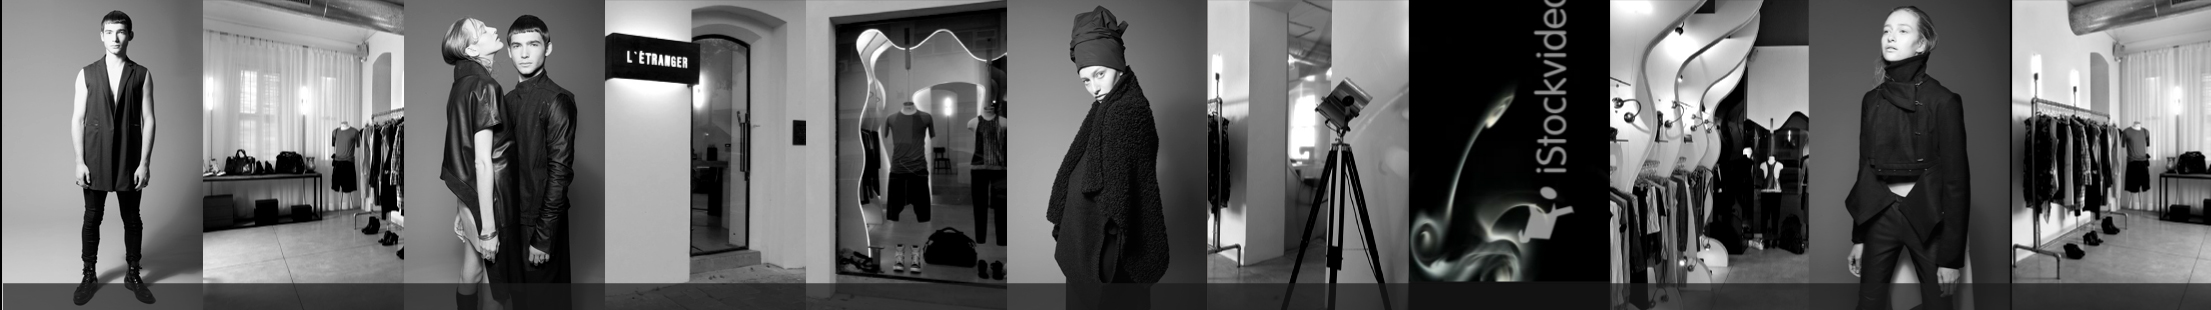
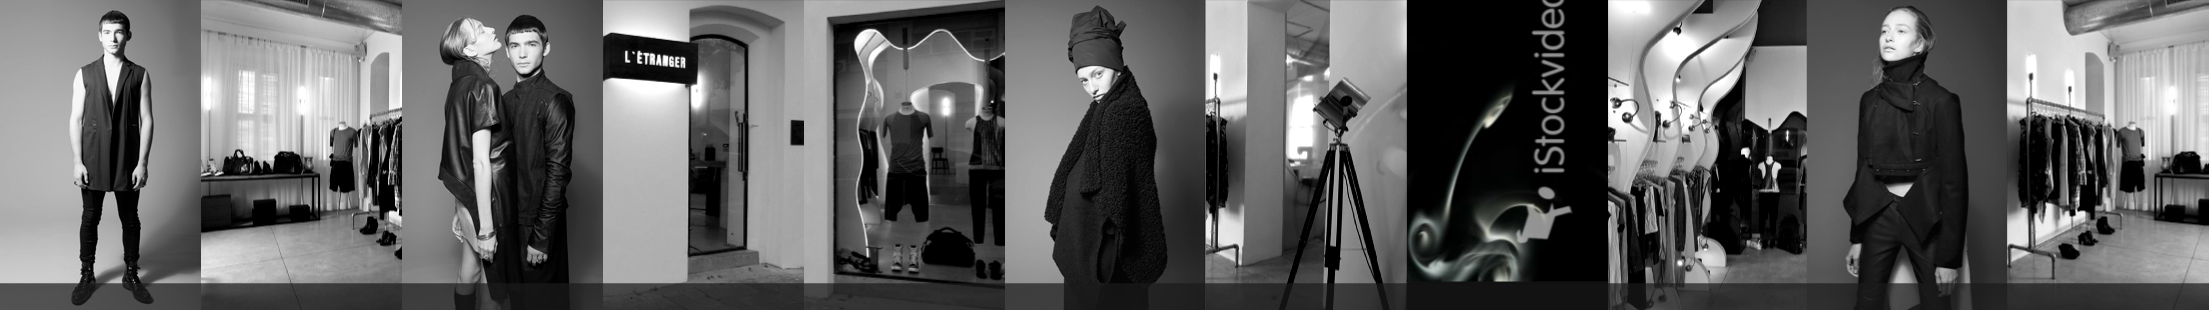
final version 3 static pages
i hope

diff --git a/includes/style.css b/includes/style.css
@@ -160,7 +160,7 @@ footer>section>a:nth-child(5) {
 }
 /* first section in home page - title LETRANGER*/
 #hp_info {
-	height : 100px; 
+	/*height : 100px;*/
 	background: #000000 url(../images/line.jpg) no-repeat 40px bottom;	
 /*	background-size: 917px 1px; */ 
 }
@@ -169,7 +169,7 @@ footer>section>a:nth-child(5) {
 	font-size: 12px;
 	color: #808080;
 	line-height: 27px;
-	padding: 2px 45px 0px 36px;		
+	padding: 2px 45px 17px 36px;		
 }
 /* second section in home page*/
 #designers_area {
@@ -218,16 +218,14 @@ footer>section>a:nth-child(5) {
 /* ------------------------------------------------- Textual pages ------------------------------------------------- */
 
 #textual_pages {
-/*	background: #000000 url(../images/check/textual_pages_bg.jpg) no-repeat top; */
-	background: #000000 url(../images/textual_pages_bg.jpg) no-repeat top; 
+	background: #000000 url(../images/textual_pages_bg.jpg) repeat-x  top;
 	background-size: 2211px 310px; 
-	background-repeat: repeat-x; /*for the background scrolling*/
 }
 
 /* --------------------------------------------------- About page --------------------------------------------------- */
 
 #about_info {
-	height : 230px; /* 207 */
+	/*height : 230px; /* 207 */
 	width: 1005px;
 	background: url(../images/main_bar.jpg) no-repeat 40px top, url(../images/line.jpg) no-repeat 40px bottom;
 }
@@ -243,7 +241,7 @@ footer>section>a:nth-child(5) {
 	font-size: 12px;
 	color: #808080;
 	line-height: 22px;
-	padding: 24px 45px 0px 40px;
+	padding: 24px 45px 25px 40px;
 } 
 
 /* --------------------------------------------------- Articles page --------------------------------------------------- */
@@ -291,23 +289,28 @@ footer>section>a:nth-child(5) {
 	position: relative; 	
 }
 #all_articles>article:nth-child(1){
-	height : 168px;
+	/*height : 168px;*/
 }
 #all_articles>article:nth-child(2){
-	height : 173px;
+	/*height : 173px;*/
+}
+#all_articles>article:nth-child(1)>h2{
+	padding: 30px 45px 0px 39px;
+}
+#all_articles>article:nth-child(2)>h2{
+	padding: 35px 45px 0px 38px;	
 }
 #all_articles>article>h2{
 	font-family: Arial;
 	font-size: 13px;
 	color: #ffffff;
-	padding: 32px 45px 0px 40px;
 }
 #all_articles>article>p {
 	font-family: Arial;
 	font-size: 12px;
 	color: #808080;
 	line-height: 22px;
-	padding: 12px 45px 0px 40px;
+	padding: 5px 45px 30px 39px;
 } 
 .read_more_link {
 	display: block;
@@ -315,7 +318,7 @@ footer>section>a:nth-child(5) {
 	height: 18px;
 	background:url(../images/read_more.jpg) no-repeat;
 	position: absolute;
-	right: 40px;
+	right: 47px;
 	bottom: 1px;
 	text-align: center;
 	text-decoration: none;

diff --git a/includes/scripts.js b/includes/scripts.js
@@ -17,8 +17,10 @@ $(document).ready(function() {
 var BackgroundScroll = function(params) {
 	params = $.extend({
 		scrollSpeed: 20,
-		imageWidth: $('#hp').width(),
-		imageHeight: $('#hp').height()
+		imageWidth: $('#textual_pages').width(),
+		imageHeight: $('#textual_pages').height(),
+		imageWidthHp: $('#hp').width(),
+		imageHeightHp: $('#hp').height()
 	}, params);
 	
 	var step = 1,
@@ -30,6 +32,7 @@ var BackgroundScroll = function(params) {
 		if (current == restartPosition){
 			current = 0;
 		}	
+		$('#textual_pages').css('backgroundPosition', current + 'px 0');
 		$('#hp').css('backgroundPosition', current + 'px 0');
 	
 	};
@@ -42,22 +45,3 @@ var BackgroundScroll = function(params) {
 
 var scroll = new BackgroundScroll();
 scroll.init();
-
-
-/*$(document).ready(function(){
-    var vH=310;
-    var vW=2211;
-    var vT=$('#textual_pages').offset().top;
-    var vL=$('#textual_pages').offset().left;
-    var vR=$('#textual_pages').offset().right;
-    $('#textual_pages').mousemove(function(e){
-    	var xposright=e.pageX-vR;
-        var ypos=e.pageY-vT;
-        var xpos=e.pageX-vL;
-        var y=Math.round(ypos/vW*100);
-        var x=Math.round(xpos/vH*100);
-        var xright=Math.round(xposright/vH*100);
-        $('#textual_pages').css({backgroundPositionX: x+'%'});
-        $('#textual_pages').css({backgroundPositionX: xright+'%'});
-    });
-});*/
